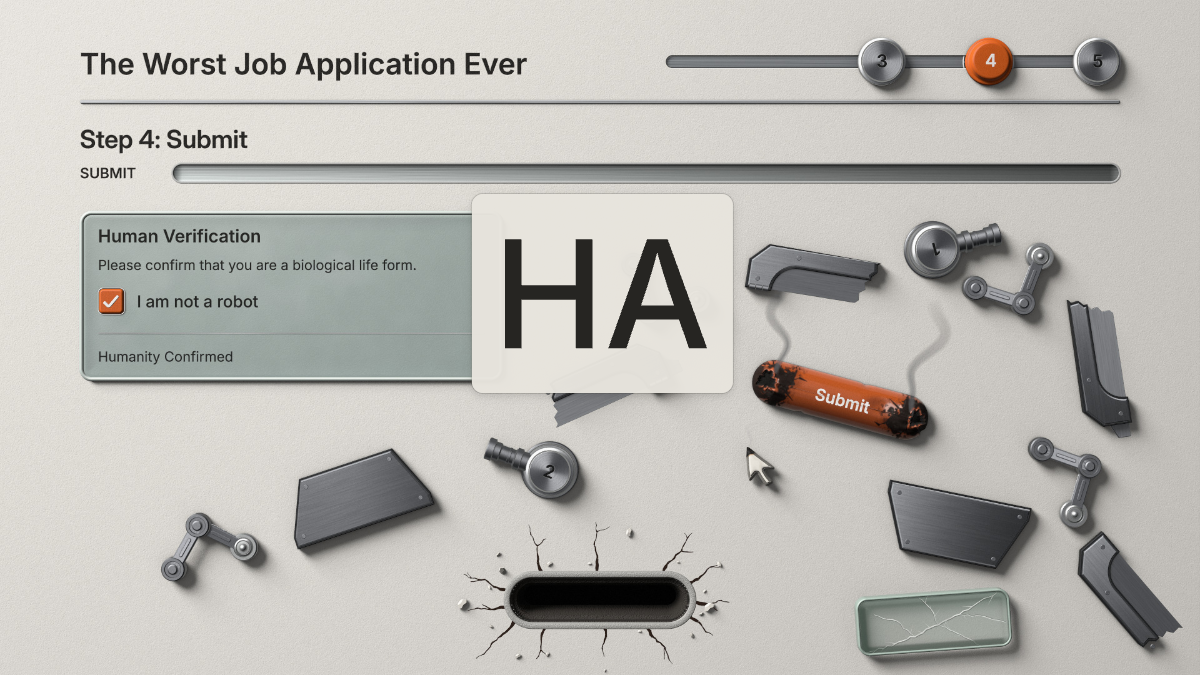
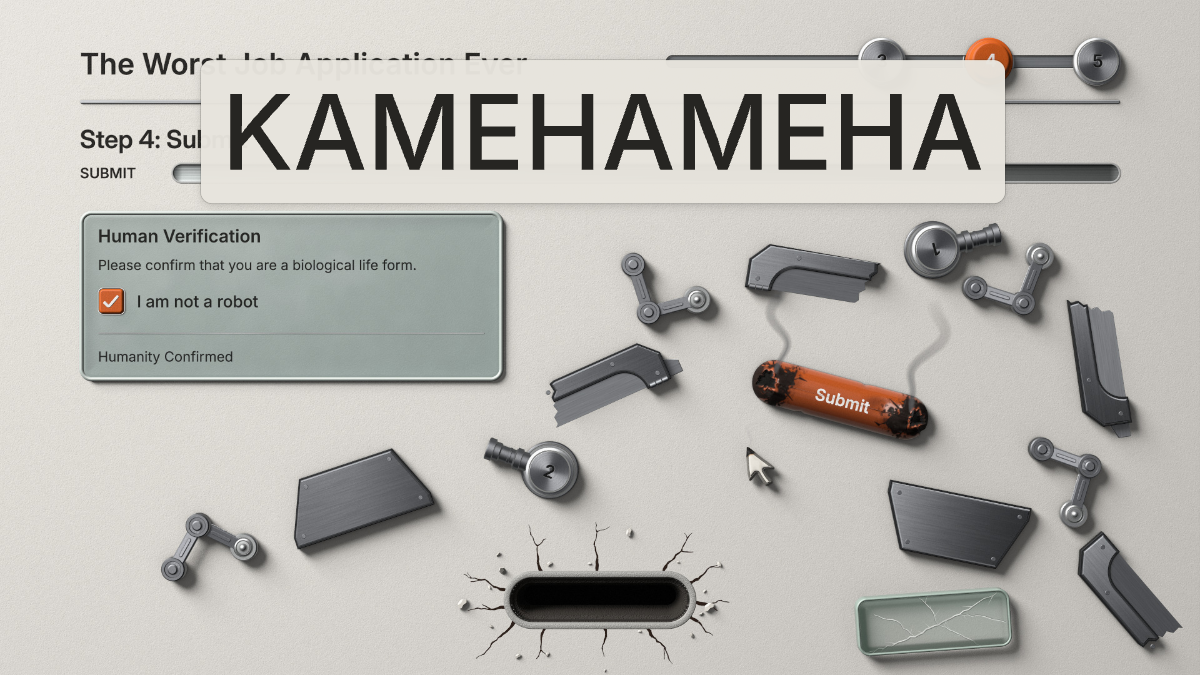
Decision page caption place 264, shout harness: five steps, own end, 404 names

Changed region(s): [[0.1542, 0.0622, 0.8633, 0.5911]]

diff --git a/src/ui/said.ts b/src/ui/said.ts
@@ -80,8 +80,9 @@ export const CAPTION = {
   wide: 900,
   high: 96,
   low: 1044,
-  // The y of the lower edge on a page that names none and has a thing at the foot of its middle: on the boss page, just above the cracks round the slot.
-  lowOn: { step4: 828 } as Record<string, number>,
+  // The y of the lower edge on a page that names none and has a thing at the foot of its middle: on the boss page, just above the cracks round the slot;
+  // on the decision page, in the clear band between the head of the page and the letter, since the button and the link fill the foot.
+  lowOn: { step4: 828, step5: 264 } as Record<string, number>,
   // A line that builds one part a mark on one row (the shout of the boss): px of the first step, the growth a step, the most px of the last, the y of the panel's upper edge
   // and the lowest its lower edge may come (the top band of the screen), the widest it gets, its line height, and the px and turns a second by which the last step shakes.
   // The whole line at its last step is fitted into that band, and every step before it is one growth smaller, so the type never shrinks.

diff --git a/tests/b-shell-script.test.ts b/tests/b-shell-script.test.ts
@@ -460,6 +460,8 @@ describe('the shout of the boss: a draft that builds on one row, a part a mark o
     }
     expect(shoutShake(0.37)).toEqual(shoutShake(0.37))
     expect(CAPTION.lowOn.step4).toBeLessThan(CAPTION.low)
+    expect(CAPTION.lowOn.step5).toBeGreaterThanOrEqual(168 + 62)
+    expect(CAPTION.lowOn.step5).toBeLessThanOrEqual(298)
     expect([CAPTION.shout.top, CAPTION.shout.low]).toEqual([96, 330])
   })
 
